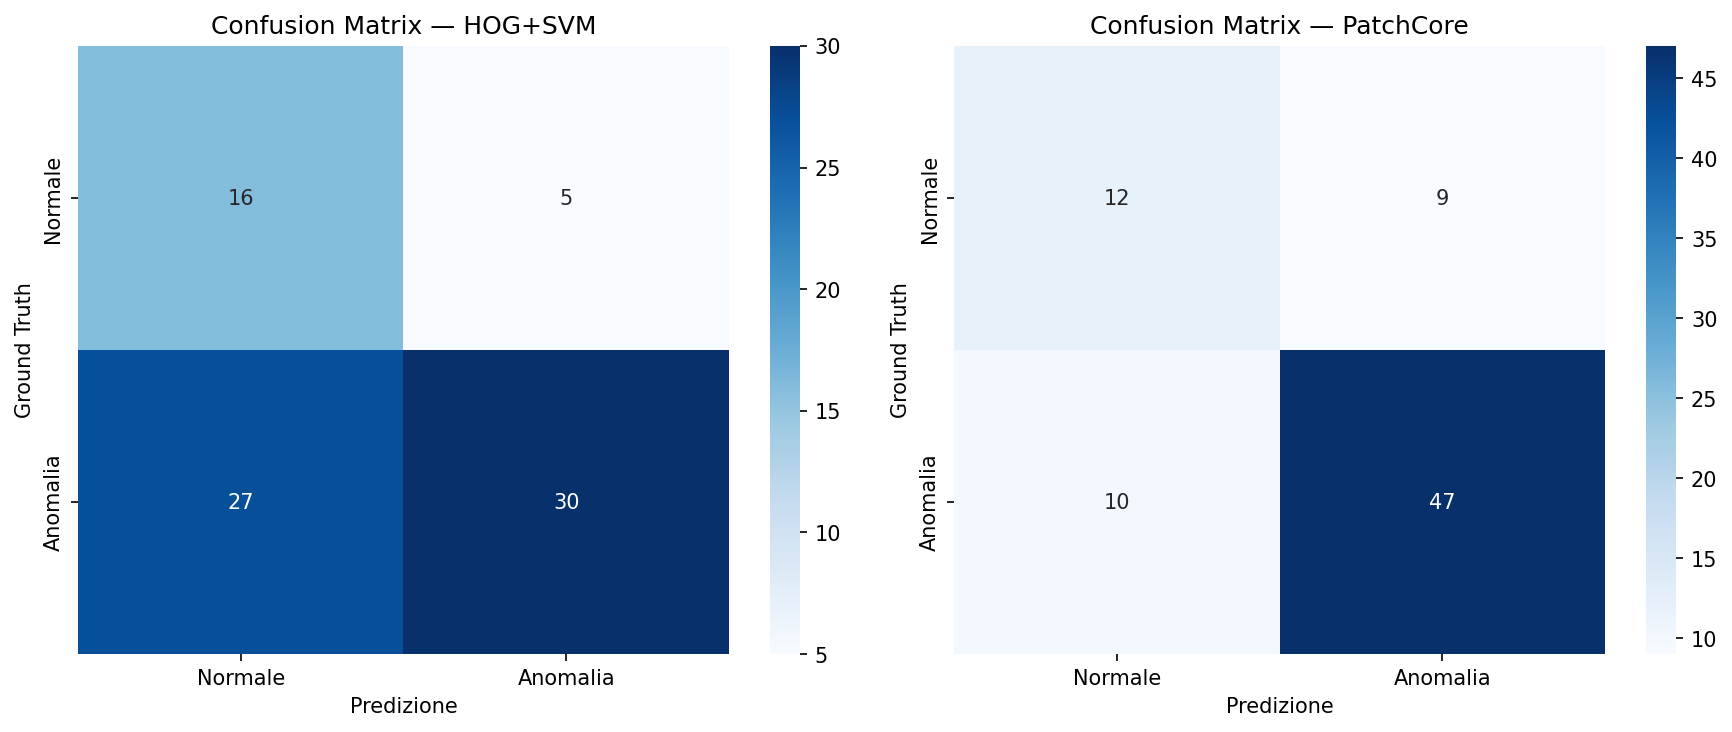
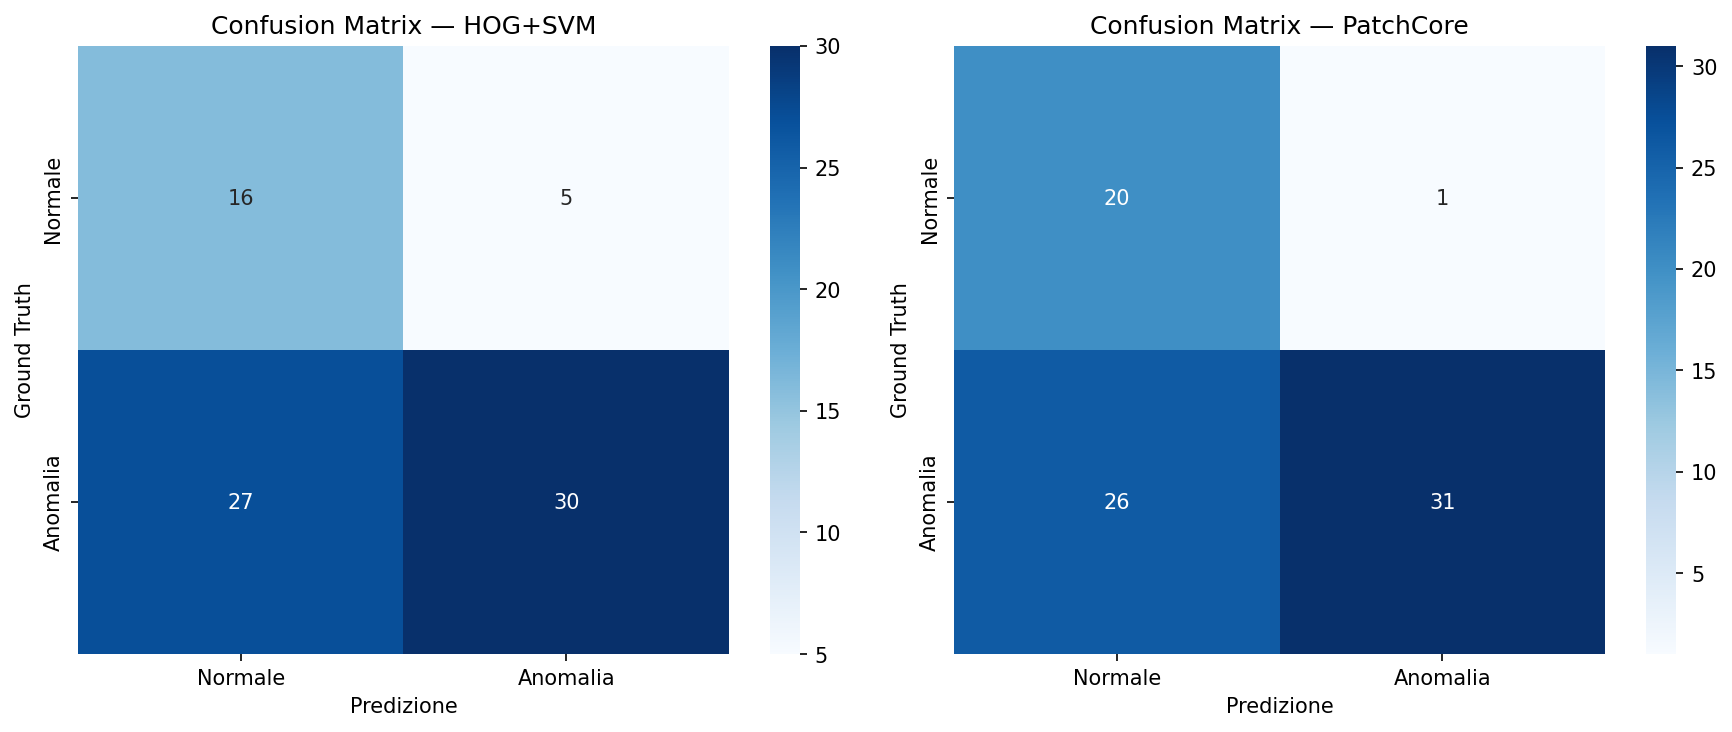
Full coreset results - metal_nut 0.959, screw 0.883, grid 0.757

diff --git a/models/patchcore.py b/models/patchcore.py
@@ -108,11 +108,7 @@ class PatchCoreDetector:
         return np.concatenate(all_features, axis=0), map_size
 
     def _coreset_subsampling(self, features: np.ndarray) -> np.ndarray:
-        """Random pre-filtering + greedy coreset su subset gestibile."""
-        max_pre = 10000
-        if len(features) > max_pre:
-            idx = np.random.choice(len(features), max_pre, replace=False)
-            features = features[idx]
+        """Greedy coreset su tutto il feature set — nessun pre-subsampling."""
         n_select = max(1, int(len(features) * self.coreset_ratio))
         print(f"Coreset: {len(features)} → {n_select} feature selezionate")
         indices = [np.random.randint(0, len(features))]
